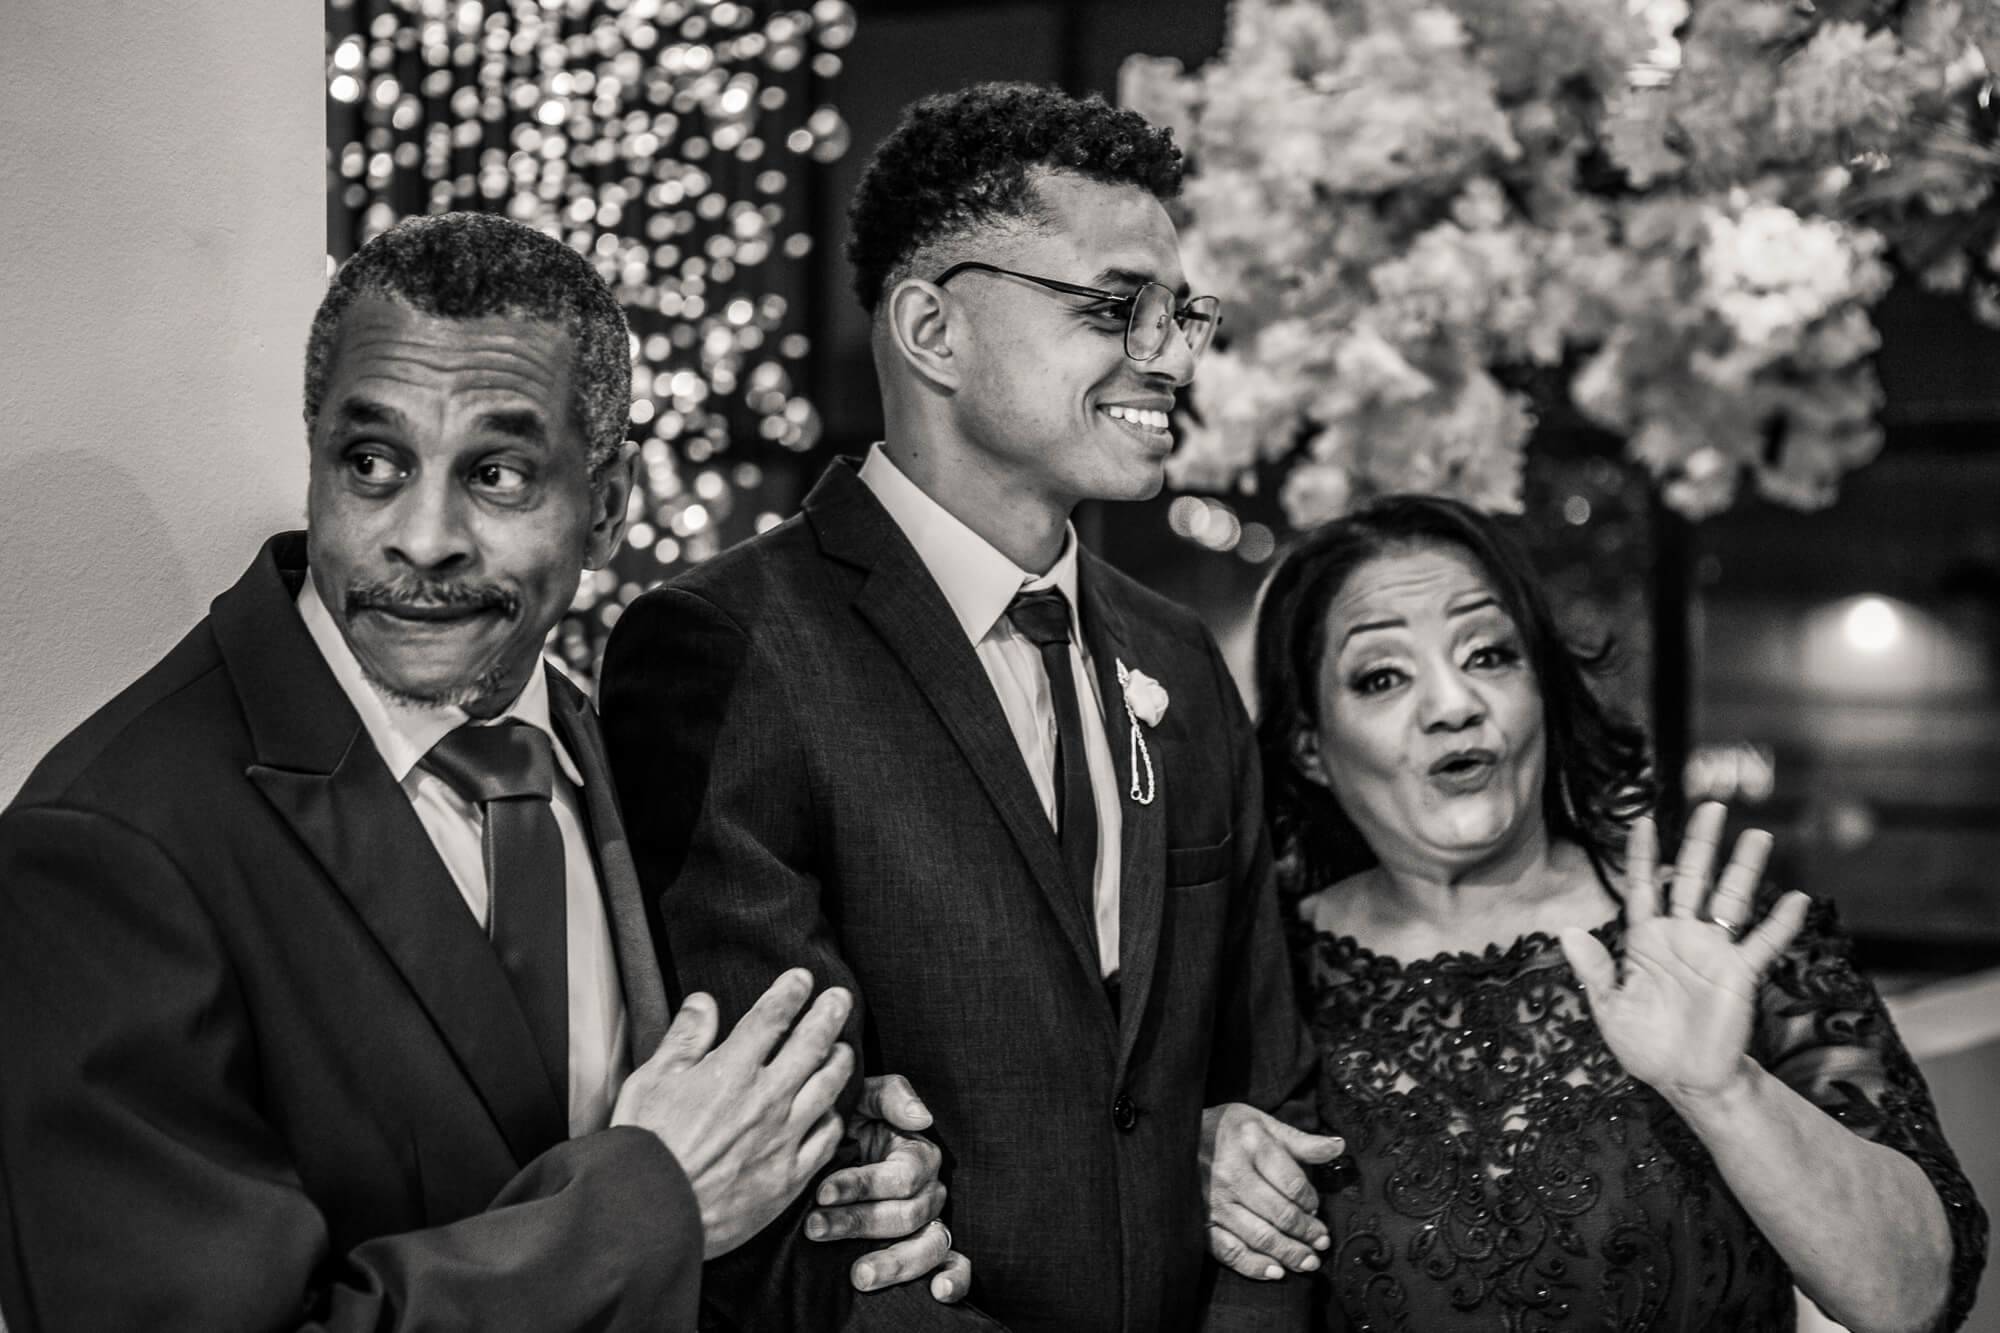
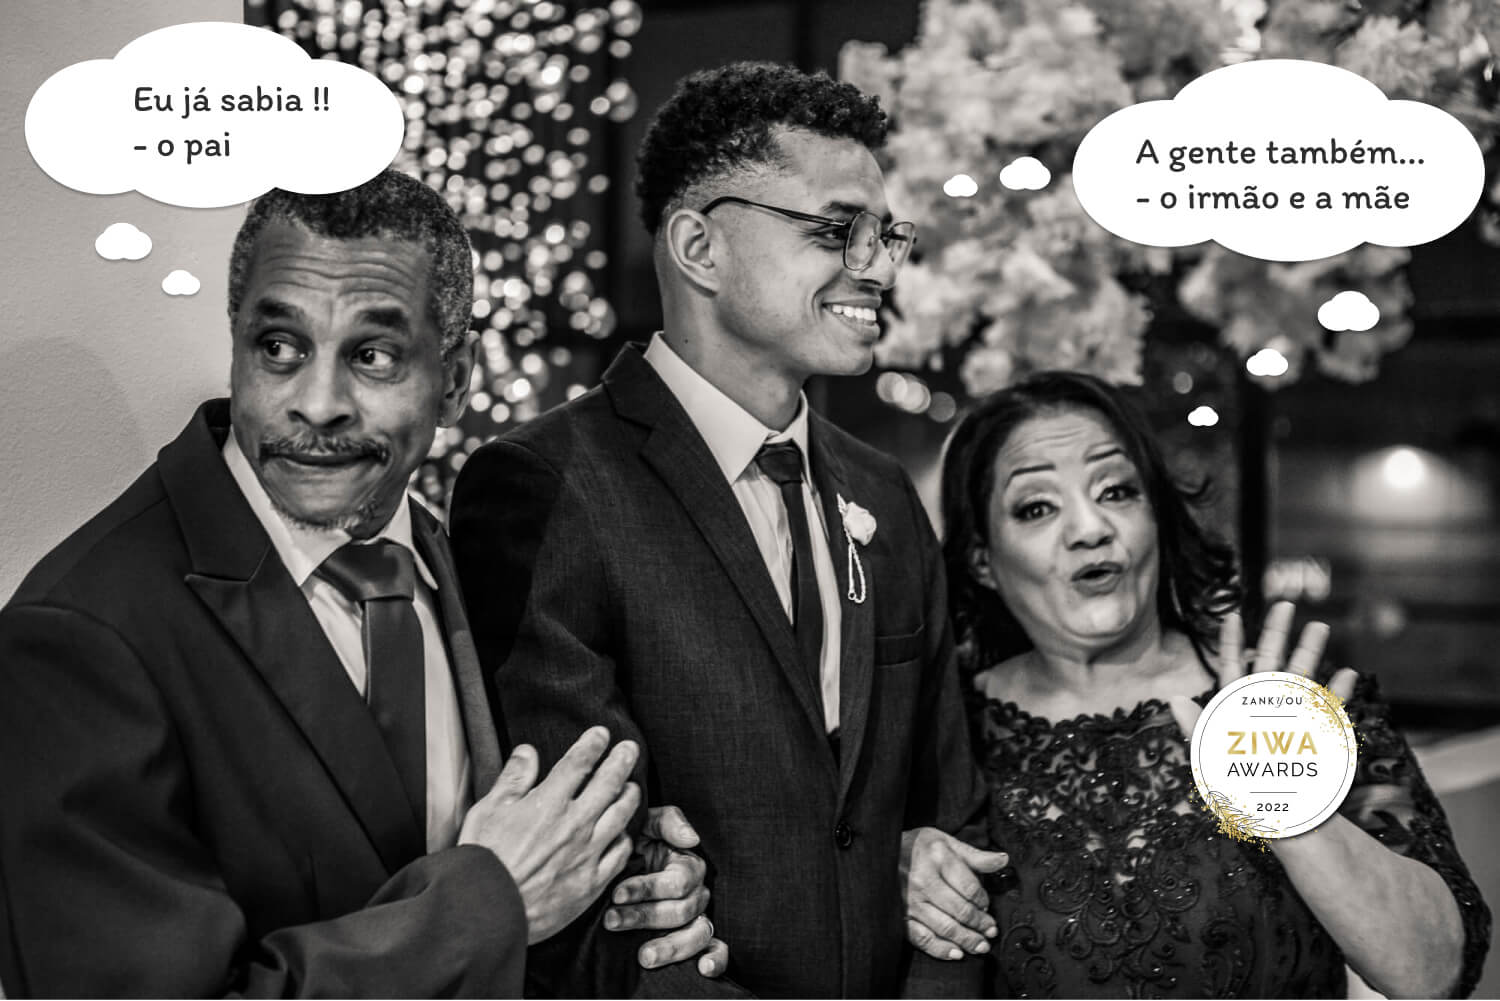
added zankyou awards

diff --git a/content/posts/vencemos-premio-zankyou-ziwa-awards-2022.md b/content/posts/vencemos-premio-zankyou-ziwa-awards-2022.md
@@ -1,0 +1,52 @@
+---
+topology: posts
+title: Vencemos o Prêmio Zankyou ZIWA Awards 2022
+headline: As Casamenteiras é a vencedora do Prêmio Zankyou ZIWA Awards 2022, na categoria Assessoria e Cerimonial de casamentos.
+date: 2022-11-27T03:36:00+00:00
+updatedAt: 2022-11-27T03:36:00+00:00
+createdAt: 2022-11-27T03:36:00+00:00
+author: Equipe As Casamenteiras
+categories:
+  - premio
+featuredPost: true
+featuredImage: ../posts/images/ricardo-paulo-marli.jpg
+homeHighlightRelatedList: true
+homeHighlight: true
+homeHighlightRelated: false
+---
+
+Estamos imensamente animados e surpresos por termos sidos escolhidas como as melhores Casamenteiras do Estado de São Paulo e do Brasil.
+
+## Prêmio Zankyou ZIWA Awards 2022
+
+Somos os vencedores na categoria **Assessoria e Cerimonial** da XII Edição dos mais prestigiados prêmios internacionais do setor.
+
+Vencer um prêmio internacional significa para nós uma vitória também de todas As Casamenteiras espalhadas por todo o Brasil, mais uma vez a medalha de ouro é nossa, e veio pelas mãos de uma mulher.
+
+## Priscilla Barbosa, A Casamenteira
+
+Surpresa mesmo? Quando olhamos para o currículo de **Priscilla Barbosa** vemos a sua formação em **Gestão de Negócios pela USP-ESALQ**, com título de **MBA**. Em sua história organizou dezenas de casamentos, eventos sociais e solenidades públicas.
+
+Sua história de sucesso como empreendedora carrega experiências como no setor agro (como produtora e distribuidora), comerciante inovadora na área de produtos orgânicos e cadeia de suprimento sustentável. Além de estar a mais de uma década na área de eventos, Pri Barbosa teve seu primeiro emprego no INCRA, onde foi continuamente promovida até vir a se tornar chefe de cabinete. Atualmente trabalha como asessora parlamentar na **ALESP**.
+
+## Categoria Assessoria e Cerimonial de casamentos
+
+Por que contratar uma assessora de casamento? Qual a diferença entre assessoria e cerimonial? Qual é a real importância de uma casamenteira?
+
+É comum que após o casamento nós de As Casamenteiras recebamos testemunhos aliviados por termos assessorado o casal e principalmente a noiva. Nós sabemos como a organização, manutenção e desenvolvimento de um evento pode ser cansativo e até frustrante. Há uma infinidade de problemas fora do nosso alcance que enfrentaremos.
+
+Desde uma crise nacional, até mesmo a manutenção do sistema de energia no dia do casamento, são alguns dos muitos casos inesperados que podem acontecer. Pense nessa noiva no **Dia da Noiva**, tendo que passar o dia inteiro passando por procedimentos estéticos e tendo que resolver problemas dos serviços mals prestados por fornecedores.
+
+## Gestão 360, As Casamenteiras
+
+Com a Gestão 360 de As Casamenteiras, o casal está completamente amparado. Foi com esse serviço que a nossa equipe se destacou entre os fornecedores e clientes. Criamos grupo no *whats* e servimos como facilitadores entre o casal e os fornecedores. Fornecemos o melhor aplicativo de organização de casamentos para o casal.
+
+A **visita técnica especializada** garante a profissionalidade do casamento, onde a equipe dAs Casamenteiras vai garantir as escolhas do casal. Fazemos a orquestração dos profissionais envolvidos de forma colaborativa e alegre, fornecendo somente as melhores energias para esse ambiente sagrado.
+
+## Como faço para saber mais sobre esse serviço premiado dAs Casamenteiras?
+
+Para saber mais sobre todos os nossos serviços, sinta-se a vontade para entrar em contato pelo whats 169 ou por e-mail cerimonial@ascasamenteiras.com.br.
+
+Nos siga também no [Instagram](https://instagram.com/ascasamenteiras_).
+
+Esperamos o melhor momento para o casal, obrigada pela leitura. Até já.
